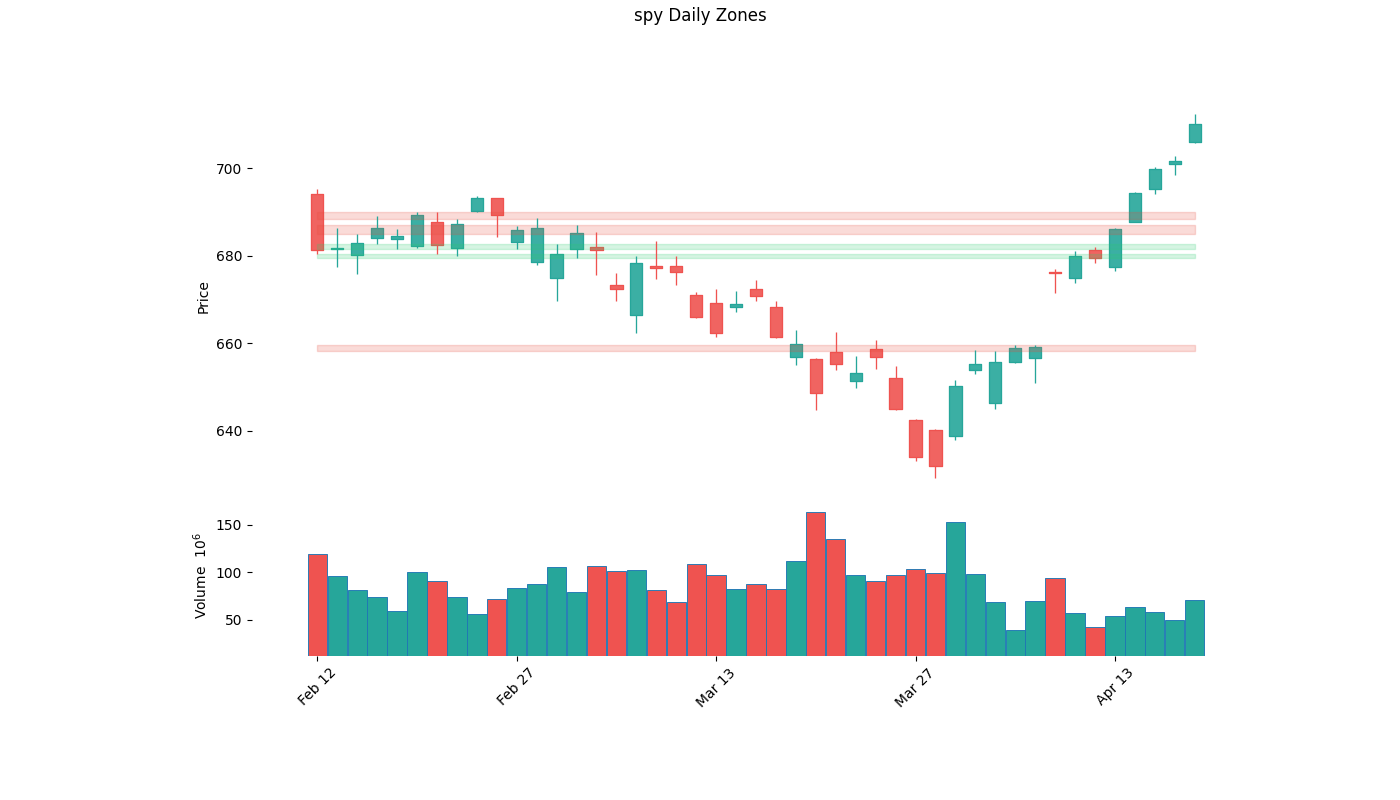
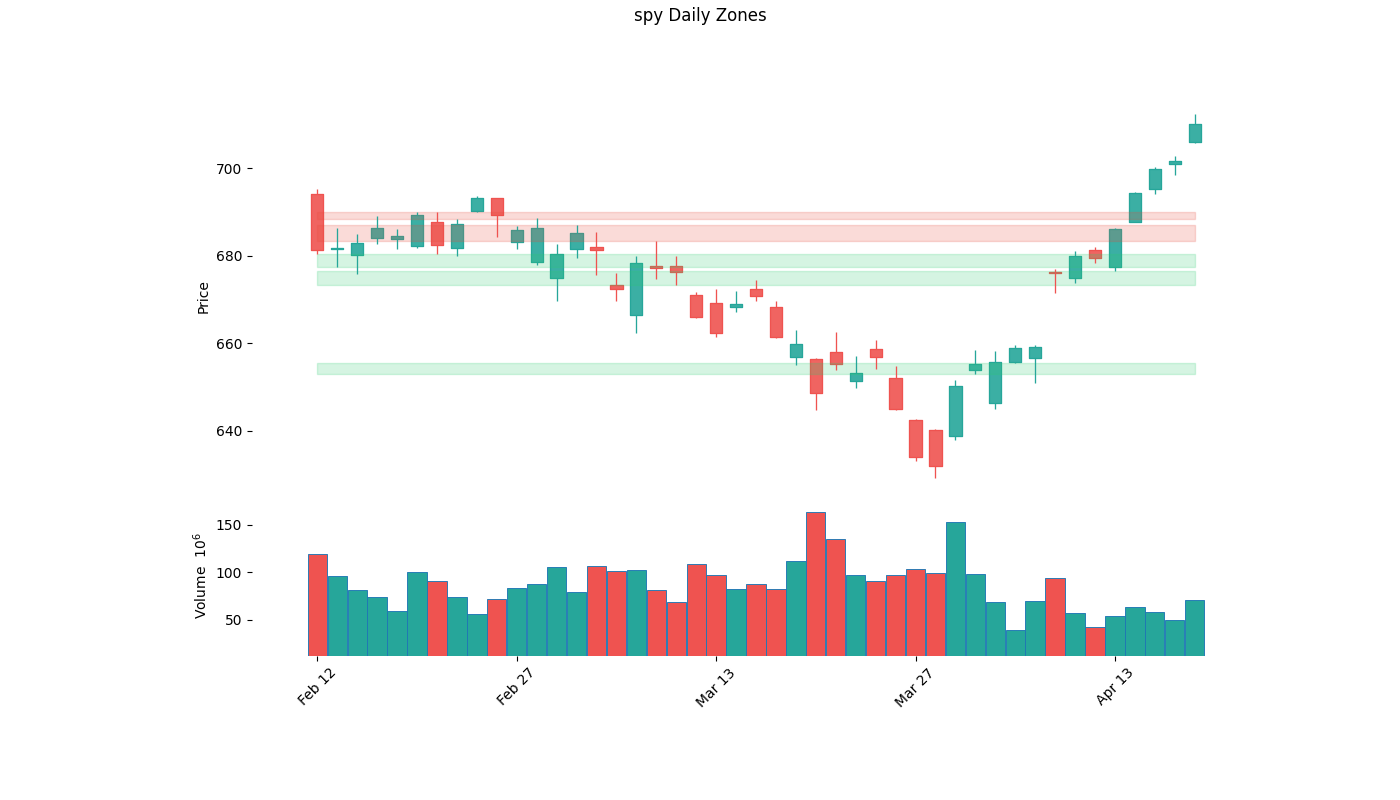
.

Changed region(s): [[0.215, 0.2812, 0.86, 0.375], [0.215, 0.4062, 0.86, 0.4688]]

diff --git a/zone.py b/zone.py
@@ -40,7 +40,7 @@ def get_daily_ohlc_3m(ticker: str, limit: int = 90) -> list[dict]:
 
 def detect_zones_from_daily(
     candles: list[dict],
-    tolerance_pct: float = 0.002,
+    tolerance_pct: float = 0.003,
     min_touches: int = 2,
     overlap_min_touches: int = 2,
     pivot_left: int = 3,
@@ -249,7 +249,7 @@ def convert_daily_to_weekly(daily_candles: list[dict]) -> list[dict]:
     return weekly
 def detect_zones_from_weekly(
     candles: list[dict],
-    tolerance_pct: float = 0.002,
+    tolerance_pct: float = 0.003,
     min_touches: int = 3,
     overlap_min_touches: int = 2,
     pivot_left: int = 3,

diff --git a/dashboard.py b/dashboard.py
@@ -202,7 +202,7 @@ def save_zone_data_for_ticker(
     weekly_candles = convert_daily_to_weekly(all_daily_candles)
     weekly_zones = detect_zones_from_weekly(
         weekly_candles,
-        tolerance_pct=0.002,
+        tolerance_pct=0.003,
         min_touches=2,
         overlap_min_touches=2,
     )

diff --git a/zone_drawer.py b/zone_drawer.py
@@ -122,7 +122,7 @@ def draw_weekly_zones_chart(
 
     weekly_zones = detect_zones_from_weekly(
         weekly_candles,
-        tolerance_pct=0.002,
+        tolerance_pct=0.003,
         min_touches=2,
         overlap_min_touches=2
     )
